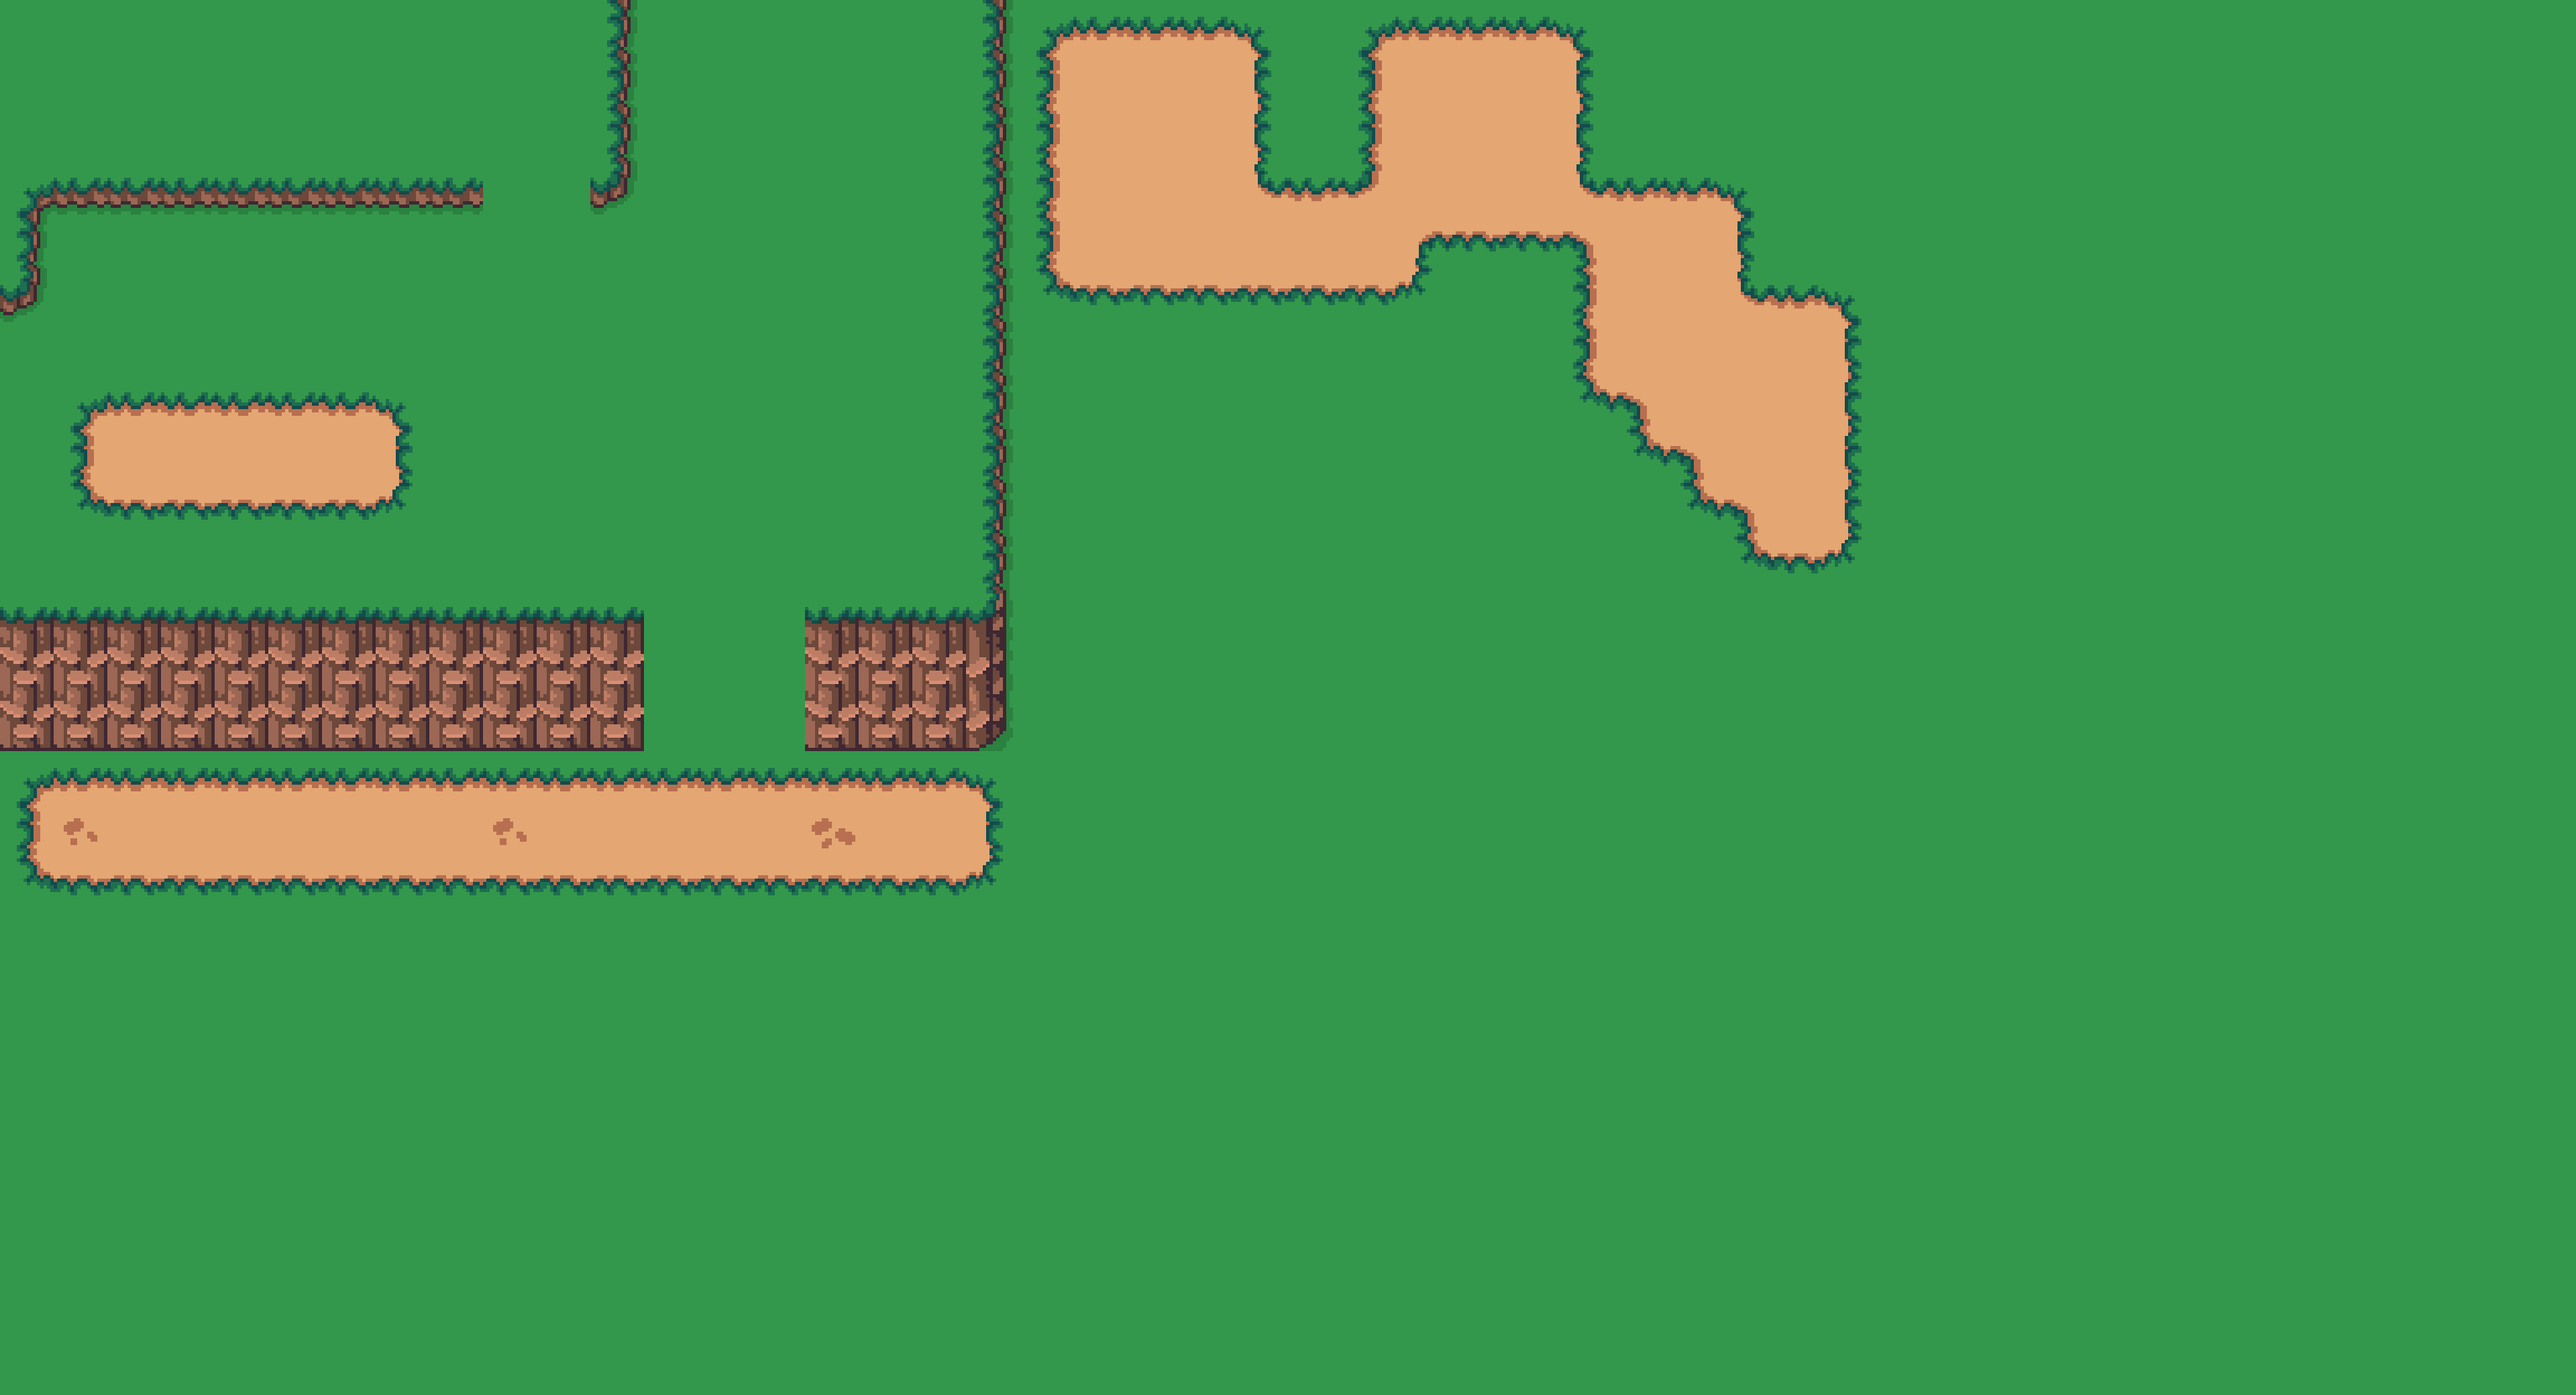
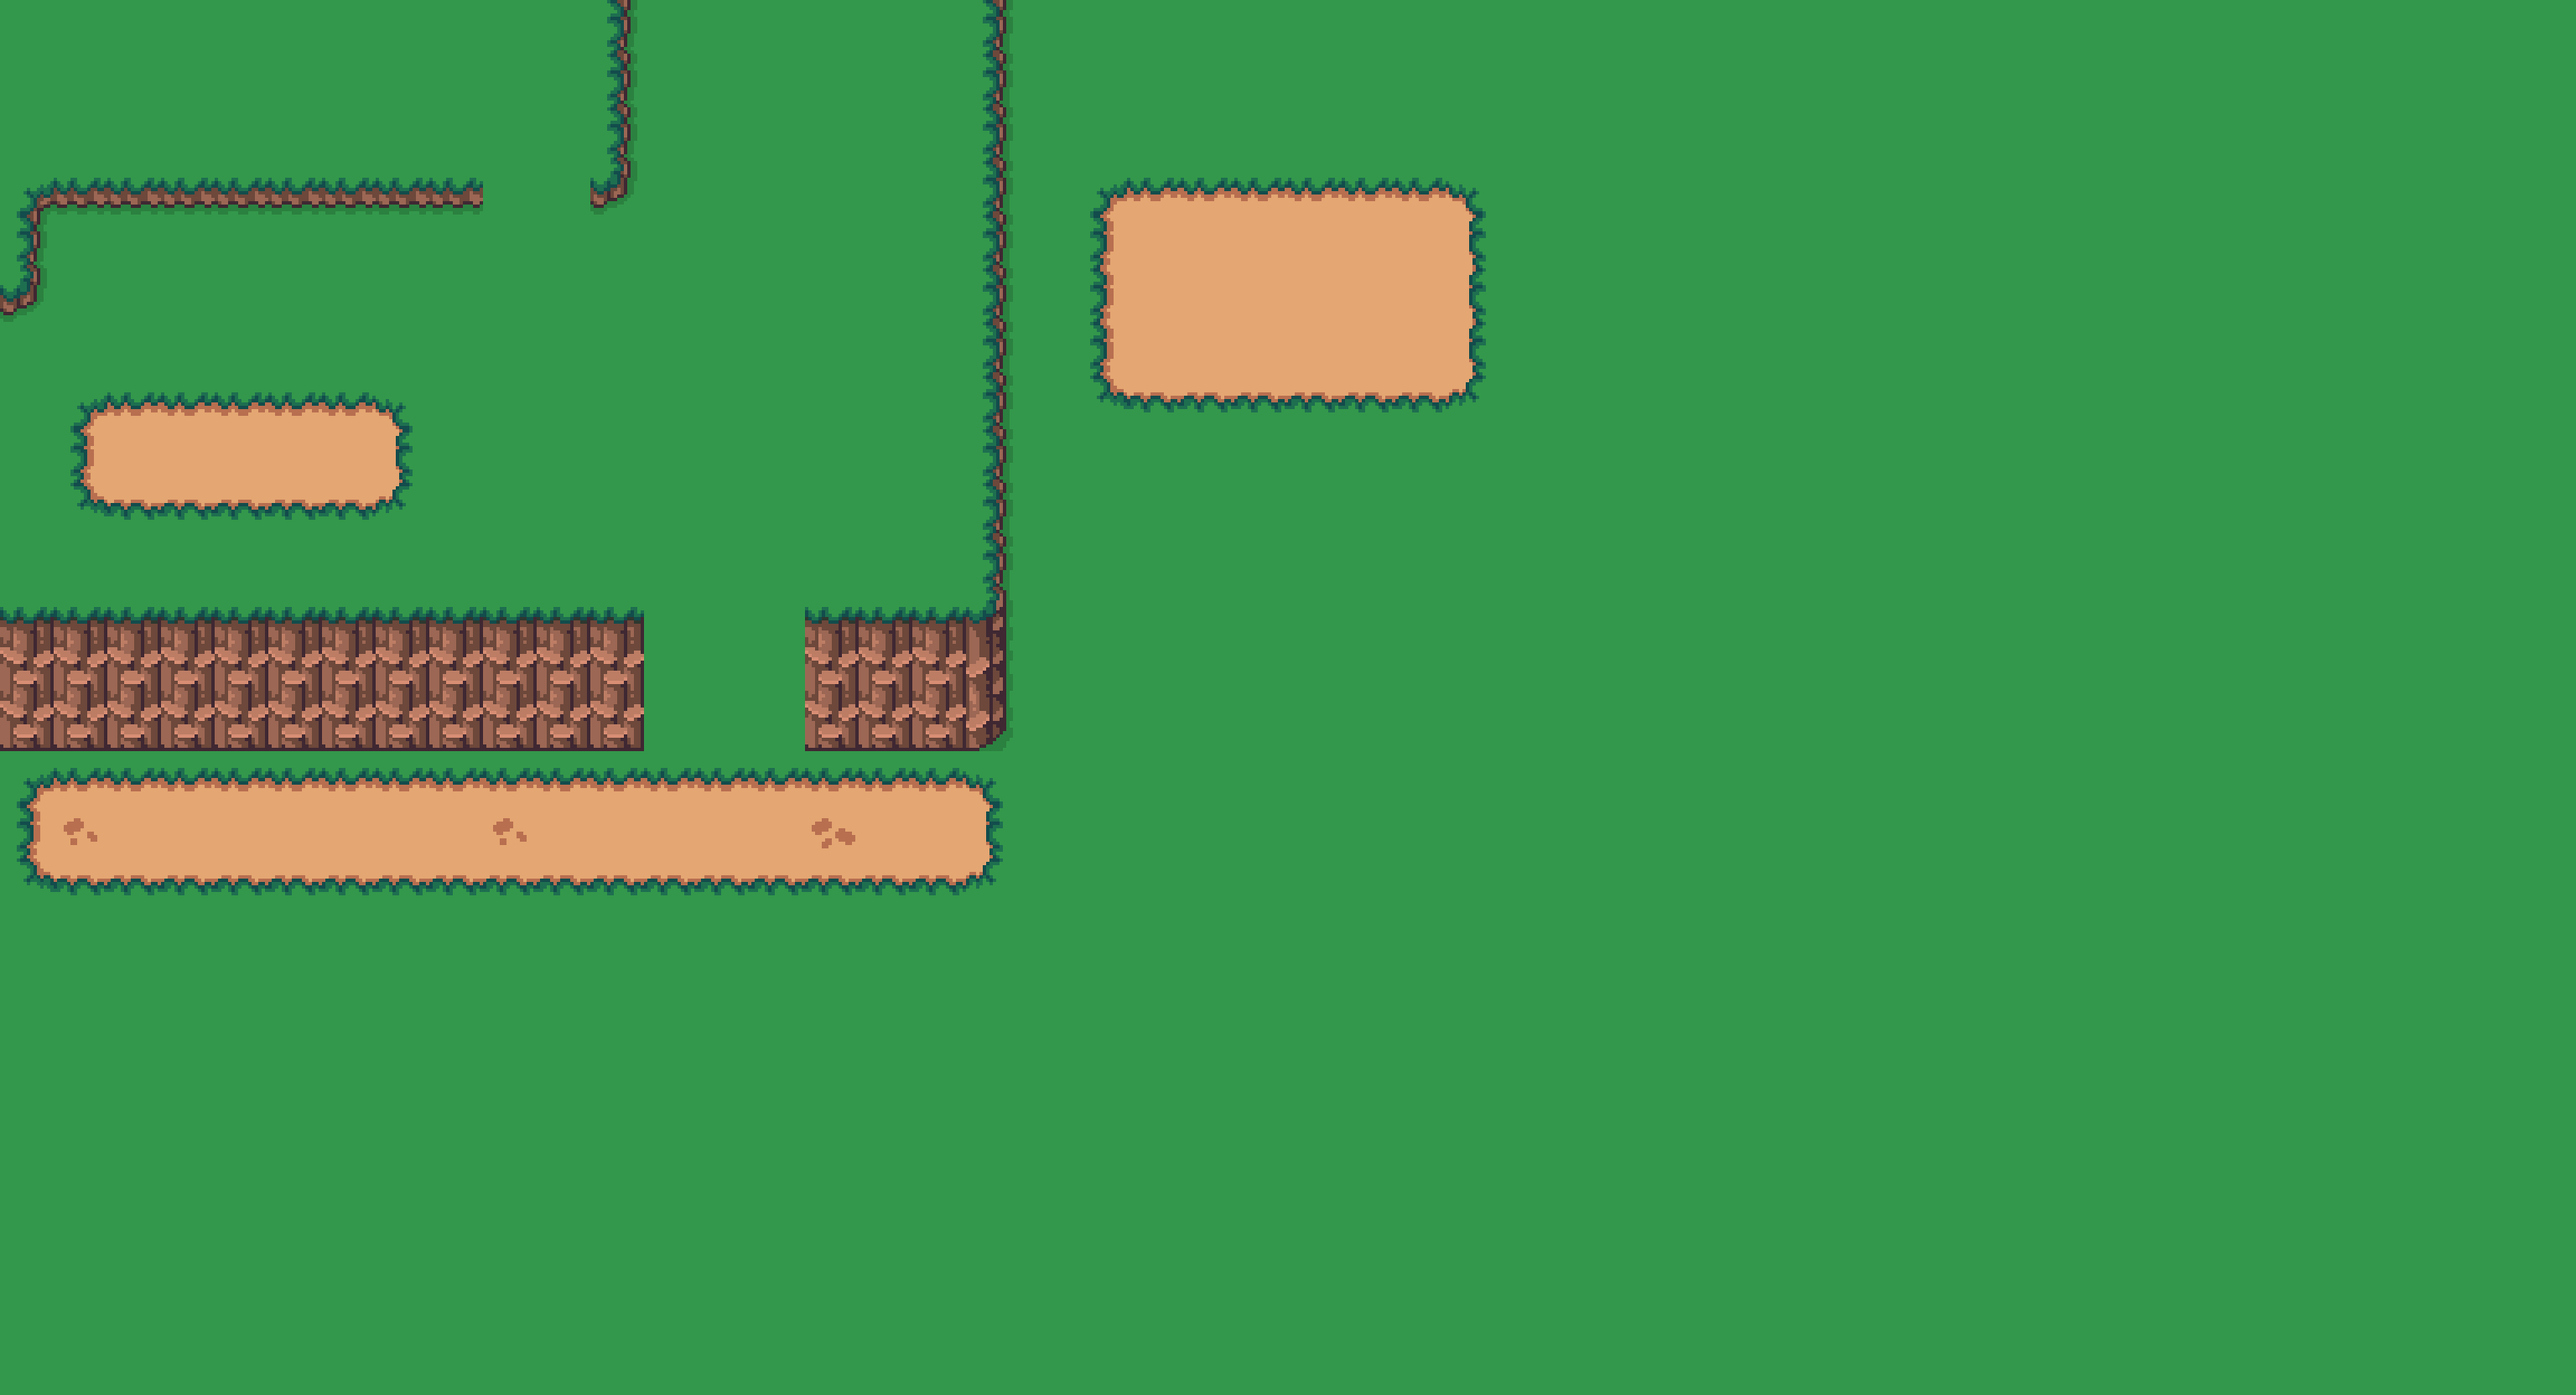
Adding Dry and Wet Farmlands separately.

Changed region(s): [[0.4062, 0.0, 0.7188, 0.4062]]

diff --git a/src/base_data.c b/src/base_data.c
@@ -102,37 +102,51 @@ const TileObject upperLayer[] =
 };
 const int upperLayerCount = ARRAY_COUNT(upperLayer);
 
-const TileObject farmlands[] =
+const TileObject farmlandsDry[] =
 {
-    { 1280, 64, 15 },
-    { 1664, 64, 2 },
-    { 1728, 64, 3 },
-    { 1792, 64, 4 },
-    { 1280, 128, 29 },
-    { 1344, 128, 2 },
-    { 1408, 128, 4 },
-    { 1664, 128, 30 },
-    { 1728, 128, 31 },
-    { 1792, 128, 32 },
-    { 1280, 192, 43 },
-    { 1344, 192, 16 },
-    { 1408, 192, 18 },
-    { 1344, 256, 30 },
-    { 1408, 256, 32 },
-    { 1920, 256, 2 },
-    { 1984, 256, 4 },
-    { 1920, 320, 16 },
-    { 1984, 320, 18 },
-    { 1920, 384, 30 },
-    { 1984, 384, 32 },
-    { 2112, 384, 15 },
-    { 1984, 448, 44 },
-    { 2048, 448, 46 },
-    { 2112, 448, 29 },
-    { 2112, 512, 43 },
-    { 2112, 576, 1 },
+    { 1344, 256, 1 },
+    { 1408, 256, 2 },
+    { 1472, 256, 2 },
+    { 1536, 256, 2 },
+    { 1600, 256, 2 },
+    { 1664, 256, 3 },
+    { 1344, 320, 4 },
+    { 1408, 320, 5 },
+    { 1472, 320, 5 },
+    { 1536, 320, 5 },
+    { 1600, 320, 5 },
+    { 1664, 320, 6 },
+    { 1344, 384, 7 },
+    { 1408, 384, 8 },
+    { 1472, 384, 8 },
+    { 1536, 384, 8 },
+    { 1600, 384, 8 },
+    { 1664, 384, 9 },
 };
-const int farmlandsCount = ARRAY_COUNT(farmlands);
+const int farmlandsDryCount = ARRAY_COUNT(farmlandsDry);
+
+const TileObject farmlandsWet[] =
+{
+    { 1344, 256, 1 },
+    { 1408, 256, 2 },
+    { 1472, 256, 2 },
+    { 1536, 256, 2 },
+    { 1600, 256, 2 },
+    { 1664, 256, 3 },
+    { 1344, 320, 4 },
+    { 1408, 320, 5 },
+    { 1472, 320, 5 },
+    { 1536, 320, 5 },
+    { 1600, 320, 5 },
+    { 1664, 320, 6 },
+    { 1344, 384, 7 },
+    { 1408, 384, 8 },
+    { 1472, 384, 8 },
+    { 1536, 384, 8 },
+    { 1600, 384, 8 },
+    { 1664, 384, 9 },
+};
+const int farmlandsWetCount = ARRAY_COUNT(farmlandsWet);
 
 const xVector2 grass1[] =
 {

diff --git a/src/entities.c b/src/entities.c
@@ -825,14 +825,45 @@ void xAddFarmland(World *world, int index, xRectangle dest)
     switch (index)
     {
     case 1:
-        info.source = SRC_FARMLAND_DRY_SINGLE;
+        info.source = SRC_FARMLAND_DRY[TOP_LEFT];
+        break;
+
+    case 2:
+        info.source = SRC_FARMLAND_DRY[TOP_CENTER];
+        break;
+
+    case 3:
+        info.source = SRC_FARMLAND_DRY[TOP_RIGHT];
+        break;
+
+    case 4:
+        info.source = SRC_FARMLAND_DRY[CENTER_LEFT];
+        break;
+
+    case 5:
+        info.source = SRC_FARMLAND_DRY[CENTER_CENTER];
+        break;
+
+    case 6:
+        info.source = SRC_FARMLAND_DRY[CENTER_RIGHT];
+        break;
+
+    case 7:
+        info.source = SRC_FARMLAND_DRY[BOTTOM_LEFT];
+        break;
+
+    case 8:
+        info.source = SRC_FARMLAND_DRY[BOTTOM_CENTER];
+        break;
+
+    case 9:
+        info.source = SRC_FARMLAND_DRY[BOTTOM_RIGHT];
         break;
     
     default:
         info.source = (xRectangle){0};
         break;
     }
-
-
+    
     xCreateEntity(world, &info, &animation);
 }

diff --git a/src/sprites_nature.c b/src/sprites_nature.c
@@ -8,20 +8,30 @@ const xRectangle SRC_CLIFF_STAIRS_WOOD =
     64 * 3
 };
 
-const xRectangle SRC_FARMLAND_DRY_SINGLE =
+const xRectangle SRC_FARMLAND_DRY[] =
 {
-    0 * 64,
-    22 * 64,
-    64,
-    64
+    { 1 * 64, 22 * 64, 64, 64 },
+    { 2 * 64, 22 * 64, 64, 64 },
+    { 3 * 64, 22 * 64, 64, 64 },
+    { 1 * 64, 23 * 64, 64, 64 },
+    { 2 * 64, 23 * 64, 64, 64 },
+    { 3 * 64, 23 * 64, 64, 64 },
+    { 1 * 64, 24 * 64, 64, 64 },
+    { 2 * 64, 24 * 64, 64, 64 },
+    { 3 * 64, 24 * 64, 64, 64 }
 };
 
-const xRectangle SRC_FARMLAND_WET_SINGLE =
+const xRectangle SRC_FARMLAND_WET[] =
 {
-    7 * 64,
-    22 * 64,
-    64,
-    64
+    { 8 * 64, 22 * 64, 64, 64 },
+    { 9 * 64, 22 * 64, 64, 64 },
+    { 10 * 64, 22 * 64, 64, 64 },
+    { 8 * 64, 23 * 64, 64, 64 },
+    { 9 * 64, 23 * 64, 64, 64 },
+    { 10 * 64, 23 * 64, 64, 64 },
+    { 8 * 64, 24 * 64, 64, 64 },
+    { 9 * 64, 24 * 64, 64, 64 },
+    { 10 * 64, 24 * 64, 64, 64 }
 };
 
 /* --------------- TERRAIN DECOR SPRITES --------------- */

diff --git a/src/base.c b/src/base.c
@@ -400,21 +400,18 @@ static void xLoadFarmlands(World *world)
 {
     xRectangle temp = {0};
 
-    for (int i = 0; i < farmlandsCount; i++)
+    for (int i = 0; i < farmlandsDryCount; i++)
     {
-        if (farmlands[i].index == 1)
+        temp = (xRectangle)
         {
-            temp = (xRectangle)
-            {
-                farmlands[i].x,
-                farmlands[i].y,
-                64,
-                64
-            };
-            break;
-        }   
+            farmlandsDry[i].x,
+            farmlandsDry[i].y,
+            64,
+            64
+        };
+
+        xAddFarmland(world, farmlandsDry[i].index, temp);
     }
-    xAddFarmland(world, 1, temp);
 }
 
 void xLoadBaseMap(World *world, AnimalManager *manager)

diff --git a/include/sprites_nature.h b/include/sprites_nature.h
@@ -5,8 +5,24 @@
 
 extern const xRectangle SRC_CLIFF_STAIRS_WOOD;
 
-extern const xRectangle SRC_FARMLAND_DRY_SINGLE;
-extern const xRectangle SRC_FARMLAND_WET_SINGLE;
+typedef enum farmlandIndex
+{
+    TOP_LEFT,
+    TOP_CENTER,
+    TOP_RIGHT,
+    CENTER_LEFT,
+    CENTER_CENTER,
+    CENTER_RIGHT,
+    BOTTOM_LEFT,
+    BOTTOM_CENTER,
+    BOTTOM_RIGHT,
+
+    FARMLAND_COUNT
+
+} farmlandIndex;
+
+extern const xRectangle SRC_FARMLAND_DRY[];
+extern const xRectangle SRC_FARMLAND_WET[];
 
 /* --------------- TERRAIN DECOR SPRITES --------------- */
 

diff --git a/include/base_data.h b/include/base_data.h
@@ -22,8 +22,11 @@ extern const int upperLayerCount;
 extern const xVector2 upperLayerStairs[];
 extern const int upperLayerStairsCount;
 
-extern const TileObject farmlands[];
-extern const int farmlandsCount;
+extern const TileObject farmlandsDry[];
+extern const int farmlandsDryCount;
+
+extern const TileObject farmlandsWet[];
+extern const int farmlandsWetCount;
 
 extern const xVector2 grass1[];
 extern const int grass1Count;
